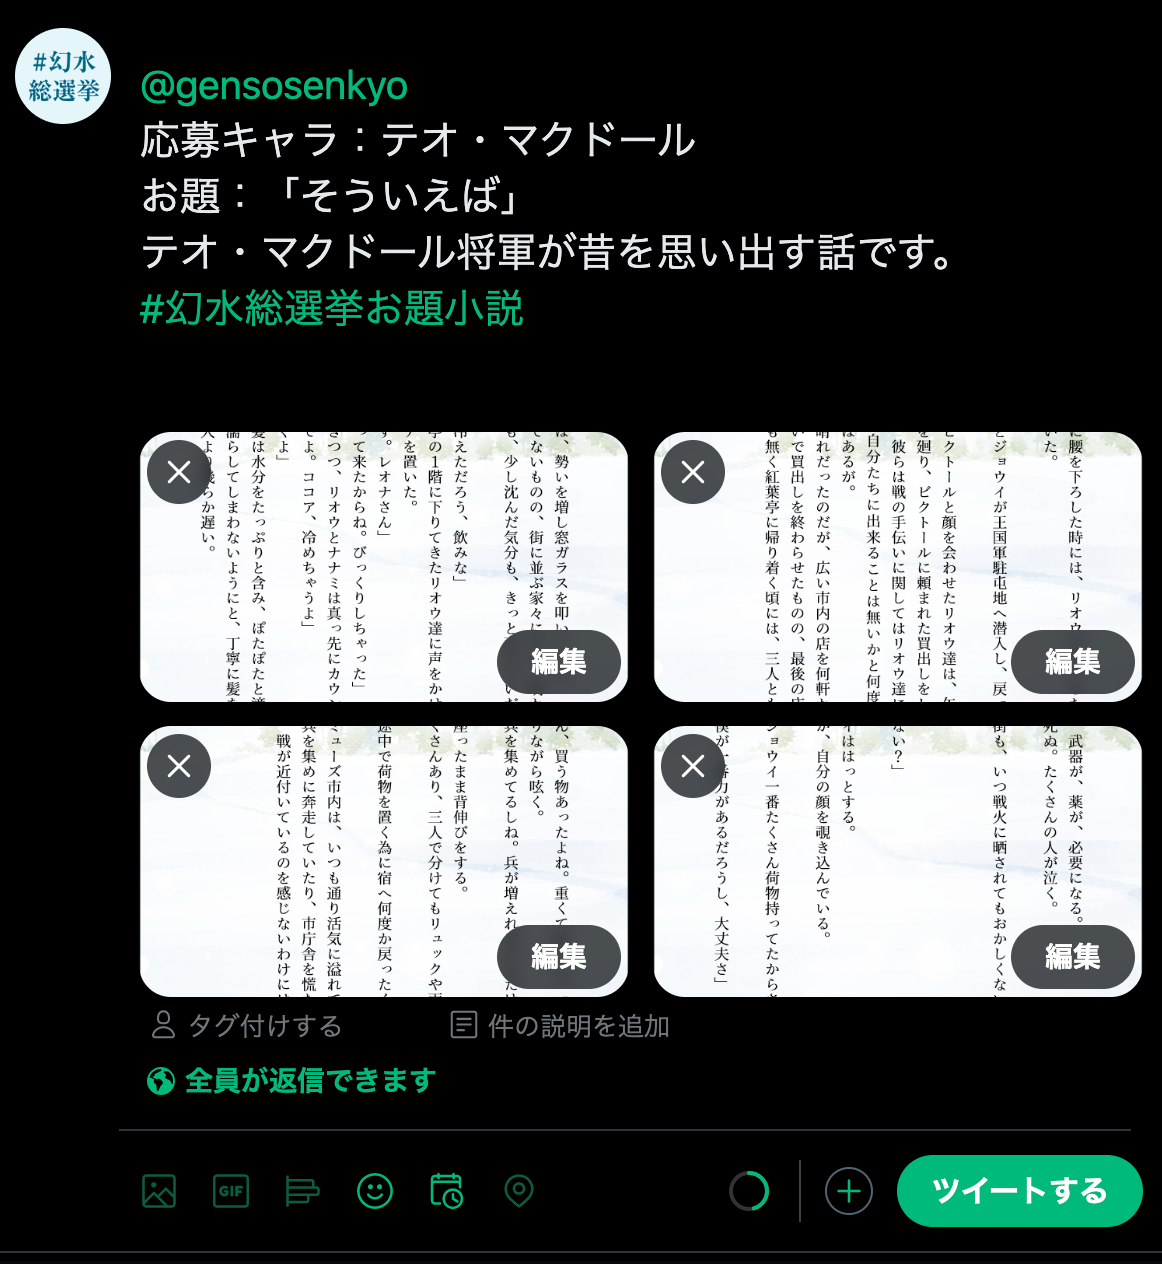
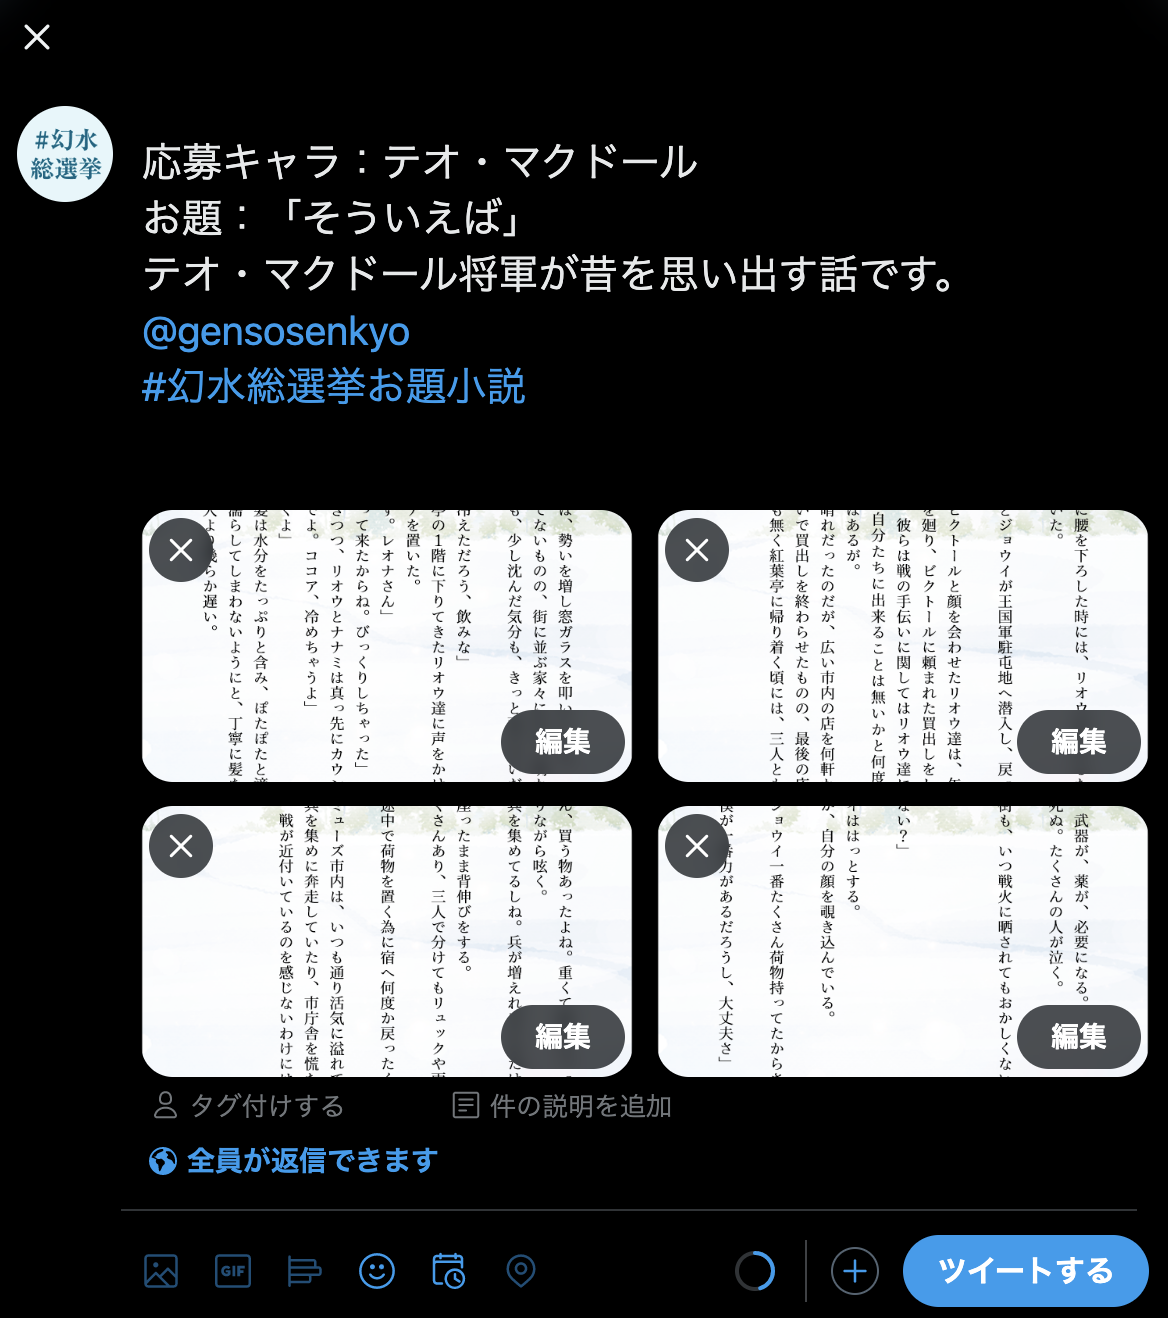
fix: 🐛 「お題小説」の説明中、メンションの書き方についてなど、修正した (#356)
* fix: 🐛 「お題小説」の説明中、メンションの書き方について修正した

* feat: 🎸 「応募の受理」にタイトルを付与した

* feat: 🎸 文言修正

* feat: 🎸 novels_on_theme_tweet_sample.png の width と height を修正

* feat: 🎸 記述を修正した

diff --git a/pages/events-in-event/novels-on-themes.tsx b/pages/events-in-event/novels-on-themes.tsx
@@ -144,7 +144,8 @@ const NovelsOnThemes: NextPage = () => {
                     </li>
                   </ul>
                 </div>
-                を記載し、主催（@gensosenkyo）宛ツイートで小説を投稿して下さい。
+                を記載し、「 <span className="font-bold">@gensosenkyo</span>{' '}
+                」を付けたツイートで投稿して下さい。
               </div>
 
               <div className="divider" />
@@ -154,11 +155,15 @@ const NovelsOnThemes: NextPage = () => {
                 <Image
                   src="/novels_on_theme_tweet_sample.png"
                   alt="お題小説ツイート例"
-                  width={1162}
-                  height={1264}
+                  width={1168}
+                  height={1318}
                 />
               </div>
-              <div className="text-left">
+
+              <div className="divider" />
+
+              <h2 className="text-xl font-bold pb-4">応募の受理</h2>
+              <div className="text-base text-left pb-4">
                 投稿ツイートには、幻水総選挙のサブアカウント（@sub_gensosenkyo）から
                 <span className="text-red-500">
                   「いいね」を付けさせていただきます
@@ -280,10 +285,10 @@ const NovelsOnThemes: NextPage = () => {
                       開票の翌日以降、開票ツイートに繋げる形で、小説の投稿ツイートをご紹介させていただきます。
                     </li>
                     <li className="pb-2">
-                      繋げてほしくない方は、投稿時に「開票後の紹介不要」と記載してください。
+                      ご応募受理済みの公開ツイートが対象です。
                     </li>
                     <li className="pb-2">
-                      主催側で受理できていないツイート、投稿後に非公開・削除されたツイートはご紹介できません。
+                      繋げてほしくない方は、投稿時に「開票後の紹介不要」と記載してください。
                     </li>
                   </ul>
                 </div>
@@ -298,6 +303,8 @@ const NovelsOnThemes: NextPage = () => {
                     <li className="pb-2">
                       非公開アカウントの方は、作品を主催宛DMでお送り頂きますと、幻水総選挙のサブアカウント
                       (@sub_gensosenkyo) からツイートでご紹介します。
+                      <br />
+                      これにより、作品がボーナス票の対象となります。
                     </li>
                     <li>
                       小説の作成方法は ①画像で作成 ②外部リンクを掲載 のどちらか
